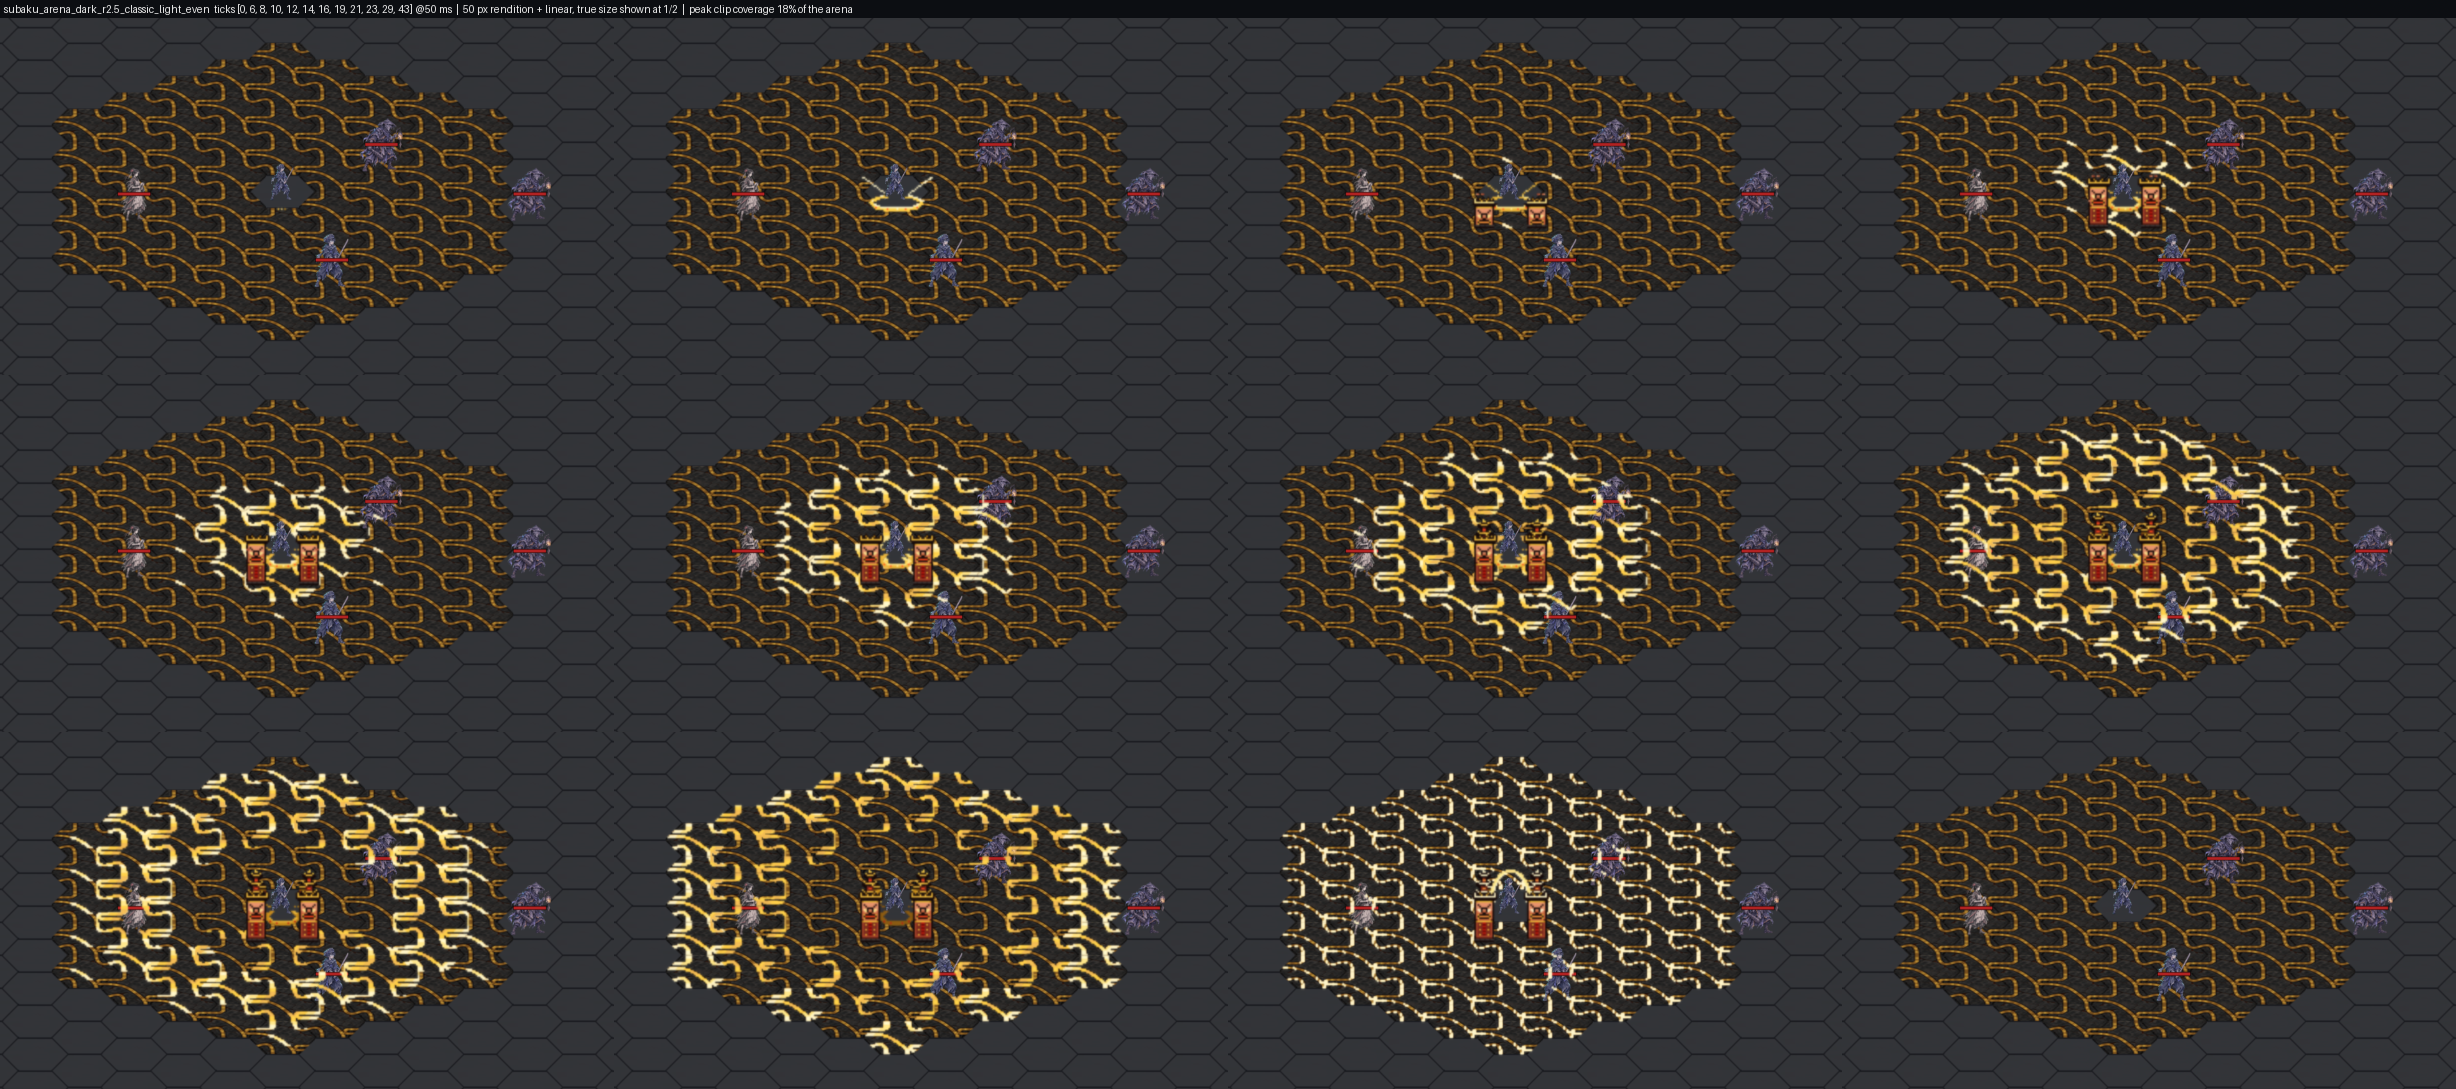
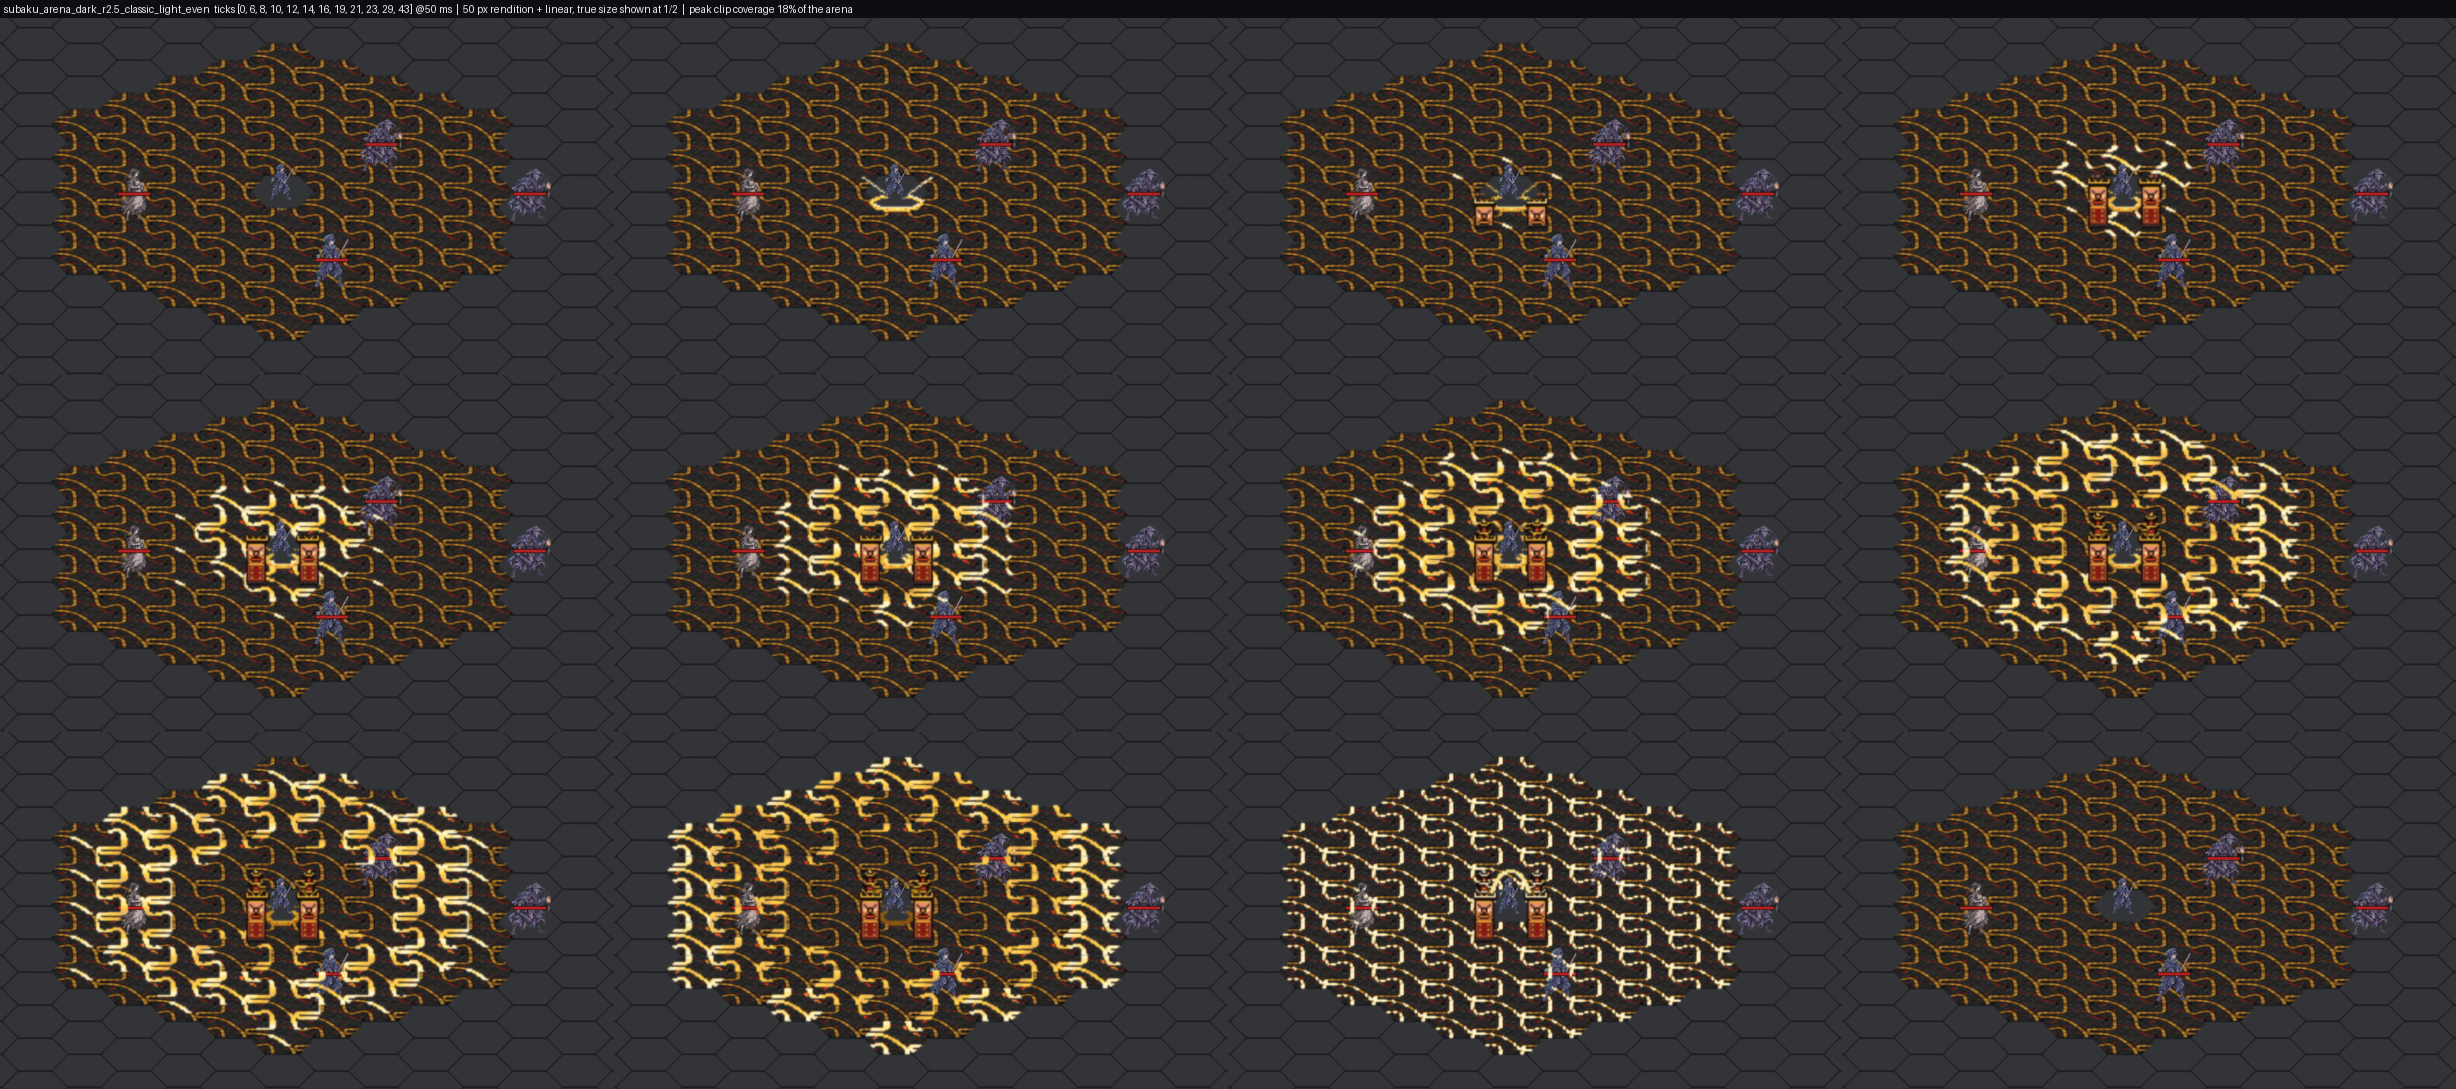
art: Subaku Palace QA r5: his red veins survive 50 px; strips renamed v2; edge lines removed
- Each glowing joint is widened to about 16 source px along the dark mortar, in his red (ref a mean #7f0302; core
  #ac0e06). The tile now shows 78 red pixels at 50 px (v4 at 1429ba87 had 0). Still 9.8 KB, alpha 255, bleed kept.
- The rim repeat is now 0.035 r, removing the faint grey lines along the horizontal edges.
- Band and seal strips are renamed _v2 (library names unchanged). Reviewer coverage is unchanged from r5.
artpreflight 0/0. Live-game requests: 0.

Claude-Session: https://claude.ai/code/session_01Xibngekrh25gkZxxmbSp7p

diff --git a/art/subaku_palace/build_domain.py b/art/subaku_palace/build_domain.py
@@ -20,8 +20,8 @@ The shipped build (light-only, no spill; RUL-2026-11-06-128 and the director's p
 - the seal (ground appear, all 60 hexes, x2, hard alpha): the final pulse, every band at its own width ramping 27-32
   (white-hot on 29), off the fighter column and meter rows.
 
-Exports (exports/): tile_sbk_domain_v4.webp (STATIC 128 px, palette, about 10 KB), anim_sbk_wave_b{k}_v1.webp (k = 0..6, 36 x 50 ms,
-150 px frames), anim_sbk_seal_v1.webp (36 x 50 ms), subaku_domain_v1.json (the band offsets).
+Exports (exports/): tile_sbk_domain_v4.webp (STATIC 128 px, palette, about 10 KB), anim_sbk_wave_b{k}_v2.webp (k = 0..6, 36 x 50 ms,
+150 px frames), anim_sbk_seal_v2.webp (36 x 50 ms), subaku_domain_v1.json (the band offsets).
 """
 import json
 import math
@@ -327,15 +327,15 @@ def main_light():
             'assets': {}, 'groups': []}
     G2 = groups()
     for k, (land, offs) in enumerate(G2):
-        name = f'anim_sbk_wave_b{k}_v1.webp'
+        name = f'anim_sbk_wave_b{k}_v2.webp'
         ext = EXT['rim'] if k >= 5 else EXT['b']
         strip([light_frame(L, t, land, ext) for t in range(NF)]).save(os.path.join(OUT, name), lossless=True, method=6)
         meta['assets'][name] = {'type': 'ANIMATION', 'frames': NF, 'speed': SPEED, 'reach_norm': 1 + ext}
         meta['groups'].append({'asset': name, 'lands_tick': land,
                                'offsets': [{'longitude': c, 'latitude': r} for c, r in offs]})
-    strip([light_seal(L, t) for t in range(NF)]).save(os.path.join(OUT, 'anim_sbk_seal_v1.webp'), lossless=True,
+    strip([light_seal(L, t) for t in range(NF)]).save(os.path.join(OUT, 'anim_sbk_seal_v2.webp'), lossless=True,
                                                       method=6)
-    meta['assets']['anim_sbk_seal_v1.webp'] = {'type': 'ANIMATION', 'frames': NF, 'speed': SPEED}
+    meta['assets']['anim_sbk_seal_v2.webp'] = {'type': 'ANIMATION', 'frames': NF, 'speed': SPEED}
     meta['assets'][TILE_NAME] = {'type': 'STATIC', 'use': 'ground tag staticAssetPath (3 rounds)'}
     for n in meta['assets']:
         meta['assets'][n]['bytes'] = os.path.getsize(os.path.join(OUT, n))

diff --git a/art/subaku_palace/classic.py b/art/subaku_palace/classic.py
@@ -51,7 +51,7 @@ OUTLINE = 0.008
 CAP = 0.30                        # his segment caps: a dark joint across the band every 0.30 of arc length
 LIGHT = (-0.6, -0.8)              # his bevel light, from the upper left
 BLEED = 0.06                      # content past the hex edge (the neighbours' continuation), so no seam opens
-RIM = 0.02                        # his dark rim is removed: the last 0.02 in from each edge repeats the inner pixels
+RIM = 0.035                       # his dark rim is removed: the last 0.035 in from each edge repeats the inner pixels
 
 
 def edge_point(k, u):
@@ -390,8 +390,23 @@ def build(gold_scale=1.0):
     for y in range(N):
         for x in range(N):
             r, g, b, a = op[x, y]
-            if a > 200 and r > 110 and r > 2.2 * g and r > 2.2 * b and not rp[x, y]:
+            if a > 200 and r > 70 and r > 1.8 * g and r > 1.8 * b and not rp[x, y]:
                 kp[x, y] = 255                       # his red mortar glow
+    # QA r5: his red veins must survive the 50 px rendition (ref a reads red-veined; RUL-125 names the red cracks).
+    # Widen each glowing joint to ~16 source px (0.8 px at 50) along the dark mortar it sits in, in his red
+    # (ref a mean #7f0302), with a hotter core, never over a band or its outline.
+    grow = crack.filter(ImageFilter.MaxFilter(17))
+    gp_ = grow.load()
+    core_m = crack.filter(ImageFilter.MaxFilter(7)).load()
+    for y in range(N):
+        for x in range(N):
+            if not gp_[x, y] or rp[x, y] or bp[x, y]:
+                continue
+            r, g, b, a = op[x, y]
+            if r + g + b > 150 and not kp[x, y]:      # stone face, not mortar: leave it
+                continue
+            op[x, y] = (172, 14, 6, a) if core_m[x, y] else (132, 6, 3, a)
+            kp[x, y] = 255
     return can, out, rail, chan, crack
 
 

diff --git a/docs/design/subaku_palace/qa_render_paths_patched.py b/docs/design/subaku_palace/qa_render_paths_patched.py
@@ -63,7 +63,7 @@ for _, land, cs in BANDS:
         d = dist(c, CASTER); true_land = int(4 + 3 * d + 0.5)
         ringerr.append((c, d, land, land - true_land))
 TILE = Q.tile(A + 'exports/tile_sbk_domain_v4.webp')
-SEAL = Q.clip(A + 'exports/anim_sbk_seal_v1.webp')
+SEAL = Q.clip(A + 'exports/anim_sbk_seal_v2.webp')
 GATES = Q.clip(A + 'gates/exports/anim_sbk_gates_rise_v6.webp')
 WAVE = {a: Q.clip(A + 'exports/' + a) for a, _, _ in BANDS}
 # fighters: caster LPC; enemies LPC at ring1 above/below, ring 2, ring 4; AI originals at ring 1/3

diff --git a/art/subaku_palace/preview.py b/art/subaku_palace/preview.py
@@ -135,7 +135,7 @@ def fighter_boxes():
 def main():
     os.makedirs(OUT, exist_ok=True)
     tile = Q.tile(os.path.join(EXP, BD.TILE_NAME if os.path.exists(os.path.join(EXP, BD.TILE_NAME)) else 'tile_sbk_domain_v3.webp'))
-    seal = load_clip('anim_sbk_seal_v1.webp')
+    seal = load_clip('anim_sbk_seal_v2.webp') or load_clip('anim_sbk_seal_v1.webp')
     pulse = load_clip('anim_sbk_pulse_loop_v1.webp') if PULSE else None
     import json
     meta = json.load(open(os.path.join(EXP, 'subaku_domain_v1.json')))

diff --git a/docs/design/SUBAKU_PALACE_ANIMATION.md b/docs/design/SUBAKU_PALACE_ANIMATION.md
@@ -104,6 +104,9 @@ sees their own rows (theninjarpg cb755375 `combat.ts:420` passes the viewer's us
 
 ## 3. Assets (built; artpreflight 0 errors / 0 warnings)
 
+Upload: push/503 (creates, hidden, with a read-only capture of the jutsu), push/504 (unhide, from the 503 bundle),
+push/505 (the jutsu, suggest mode, from the 503 bundle). See section 3b.
+
 Asset library (RUL-2026-11-05-127, folder name per RUL-2026-11-06-130: `^[a-zA-Z0-9]*$`): every upload goes in the folder
 **`JutsuSubakuPalace`**, named
 `Subaku Palace: <part>`.
@@ -136,6 +139,9 @@ the corner-to-corner canvas the game stretches):
 - Bleed (QA r4 B1): the tile carries 0.06 radius of the neighbouring hexes' own content past its edge, his dark rim
   is replaced by the inner pixels so bands run unbroken across the seam, and alpha is 255. No pale seam shows on snow
   at 50 px.
+- His red veins (QA r5; RUL-125 names the red cracks): each glowing joint is widened to about 16 source px along
+  the dark mortar, in his red (`#840603`, a `#ac0e06` core), so it survives the 50 px rendition (78 red pixels at
+  50 px; it had 0). The rim repeat is 0.035 r, which removes the faint grey lines along the horizontal edges.
 - Delivered as a 96-colour lossless palette WebP, 128 px, about 10 KB (QA r4 S3; the band strips are about 1.4 KB).
 - Side by side (hi-res, 1x true scale, 3x, the 50 px rendition, and tiled at true scale on snow):
   `docs/design/subaku_palace/tile_original_vs_new.png`.
@@ -143,14 +149,14 @@ the corner-to-corner canvas the game stretches):
 | File | Library name | Type | Frames x ms | Slot (proposed) |
 |---|---|---|---|---|
 | `exports/tile_sbk_domain_v4.webp` (128 px palette, about 10 KB, `classic.py`) | `Subaku Palace: domain floor` | STATIC | 1 | ground `decreasedamagegiven`: `staticAssetPath` (replaces DemonCastleFloor `zEvI0yd_As_FzNyrr5Iq4`) |
-| `exports/anim_sbk_seal_v1.webp` | `Subaku Palace: domain seal` | ANIMATION | 36 x 50 | ground `decreasedamagegiven`: `appearAnimation` (replaces the library clip `c4FqDZWFZOdWn86o6nPL7`); `appearSfx` blank |
-| `exports/anim_sbk_wave_b0_v1.webp` | `Subaku Palace: ring 1 wave` | ANIMATION | 36 x 50 | visual tag b0: COORDINATES, origin CASTER, offsets in `subaku_domain_v1.json`, power 2, rounds 1, `appearAnimation` |
-| `exports/anim_sbk_wave_b1_v1.webp` | `Subaku Palace: ring 1.5 wave` | ANIMATION | 36 x 50 | visual tag b1 (as b0) |
-| `exports/anim_sbk_wave_b2_v1.webp` | `Subaku Palace: ring 2 wave` | ANIMATION | 36 x 50 | visual tag b2 |
-| `exports/anim_sbk_wave_b3_v1.webp` | `Subaku Palace: ring 2.5 wave` | ANIMATION | 36 x 50 | visual tag b3 |
-| `exports/anim_sbk_wave_b4_v1.webp` | `Subaku Palace: ring 3 wave` | ANIMATION | 36 x 50 | visual tag b4 |
-| `exports/anim_sbk_wave_b5_v1.webp` | `Subaku Palace: ring 3.5 wave` | ANIMATION | 36 x 50 | visual tag b5 |
-| `exports/anim_sbk_wave_b6_v1.webp` | `Subaku Palace: ring 4 wave` | ANIMATION | 36 x 50 | visual tag b6 |
+| `exports/anim_sbk_seal_v2.webp` | `Subaku Palace: domain seal` | ANIMATION | 36 x 50 | ground `decreasedamagegiven`: `appearAnimation` (replaces the library clip `c4FqDZWFZOdWn86o6nPL7`); `appearSfx` blank |
+| `exports/anim_sbk_wave_b0_v2.webp` | `Subaku Palace: ring 1 wave` | ANIMATION | 36 x 50 | visual tag b0: COORDINATES, origin CASTER, offsets in `subaku_domain_v1.json`, power 2, rounds 1, `appearAnimation` |
+| `exports/anim_sbk_wave_b1_v2.webp` | `Subaku Palace: ring 1.5 wave` | ANIMATION | 36 x 50 | visual tag b1 (as b0) |
+| `exports/anim_sbk_wave_b2_v2.webp` | `Subaku Palace: ring 2 wave` | ANIMATION | 36 x 50 | visual tag b2 |
+| `exports/anim_sbk_wave_b3_v2.webp` | `Subaku Palace: ring 2.5 wave` | ANIMATION | 36 x 50 | visual tag b3 |
+| `exports/anim_sbk_wave_b4_v2.webp` | `Subaku Palace: ring 3 wave` | ANIMATION | 36 x 50 | visual tag b4 |
+| `exports/anim_sbk_wave_b5_v2.webp` | `Subaku Palace: ring 3.5 wave` | ANIMATION | 36 x 50 | visual tag b5 |
+| `exports/anim_sbk_wave_b6_v2.webp` | `Subaku Palace: ring 4 wave` | ANIMATION | 36 x 50 | visual tag b6 |
 | `gates/exports/anim_sbk_gates_rise_v6.webp` (centre half; v2, v4 and v5 superseded after QA) | `Subaku Palace: gates rise` | ANIMATION | 44 x 50 | SELF `increasedamagegiven`: `appearAnimation`; `appearSfx` Earth `XBlRonNjvwAZx1_HFpHdM` |
 
 The SELF `increasedamagegiven` effect's `staticAssetPath` and `staticAnimation` are **cleared** (no dais, no loop).
